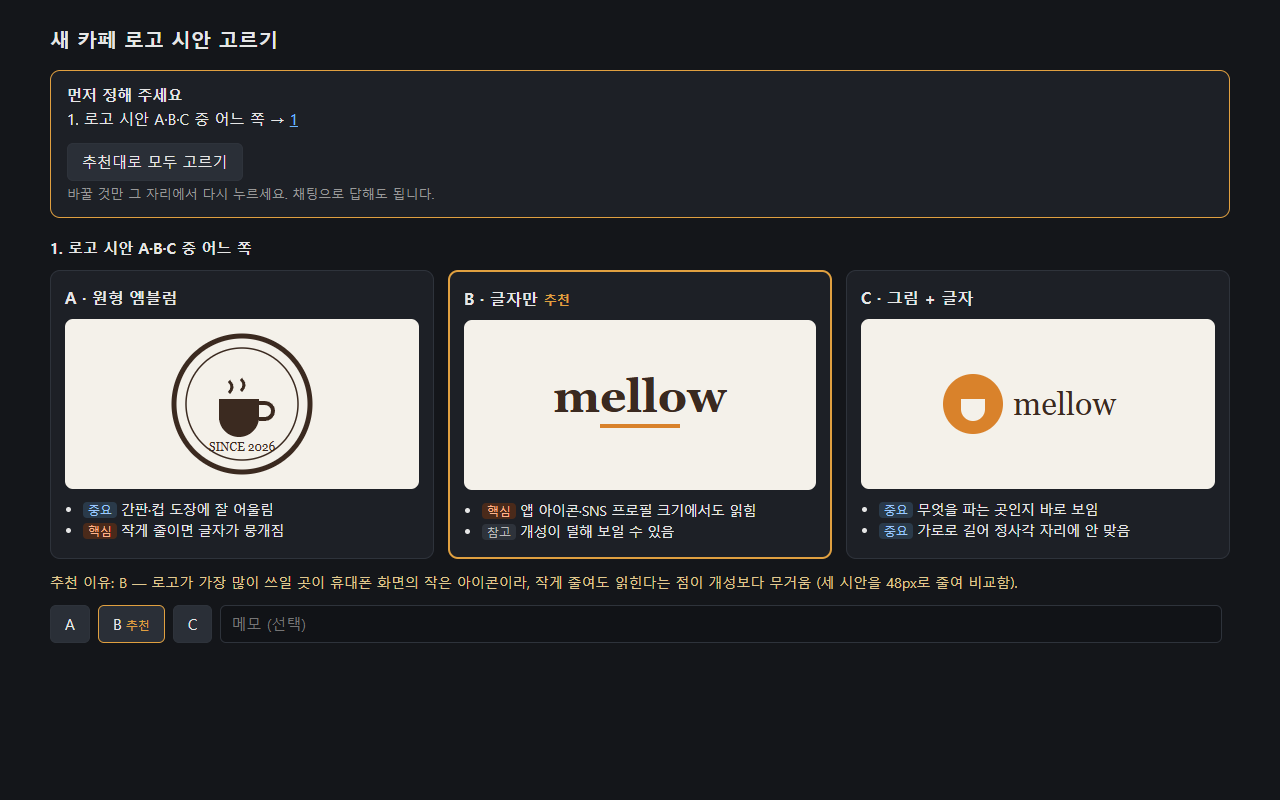
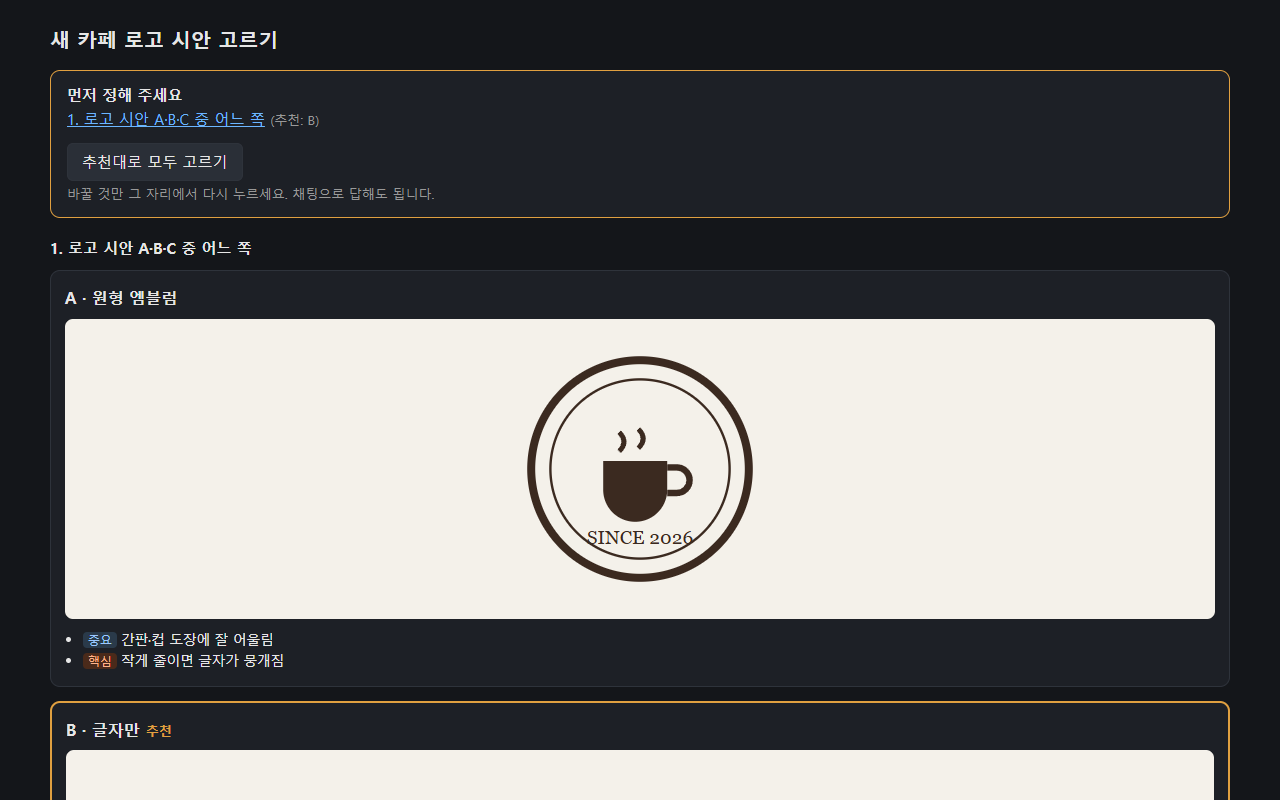
docs: pick example follows 2.1 — one card per row at full width, click to enlarge (arrows, Esc); question text is the link
The README's lead example showed three shrunken cards in a row, against the skill's own "show images large" rule.

diff --git a/docs/example_pick.html b/docs/example_pick.html
@@ -4,11 +4,15 @@ h1{font-size:20px;margin:0 0 14px}
 .ask{background:#1d2026;border:1px solid #e0a040;border-radius:10px;padding:12px 16px;margin:0 0 18px}
 .ask a{color:#6cb6ff}
 .dim{color:#999;font-size:13px}
-.cards{display:grid;grid-template-columns:repeat(3,1fr);gap:14px}
+.cards{display:grid;grid-template-columns:1fr;gap:14px}
 .card{background:#1d2026;border:1px solid #2e333b;border-radius:10px;padding:14px}
 .card.rec{border:2px solid #e0a040}
 .card h3{margin:0 0 8px;font-size:16px}.card h3 .r{color:#e0a040;font-size:13px;margin-left:6px}
-.art{background:#f4f1ea;border-radius:8px;height:170px;display:flex;align-items:center;justify-content:center;margin-bottom:10px}
+.art{background:#f4f1ea;border-radius:8px;height:300px;display:flex;align-items:center;justify-content:center;margin-bottom:10px;cursor:zoom-in}
+.art svg{height:240px;width:auto}
+#lb{position:fixed;inset:0;background:rgba(0,0,0,.92);display:none;align-items:center;justify-content:center;z-index:9}
+#lb.on{display:flex}#lb .box{background:#f4f1ea;border-radius:10px;width:86vw;height:82vh;display:flex;align-items:center;justify-content:center}#lb svg{height:70vh;width:auto}
+#lb .hint{position:fixed;bottom:14px;left:0;right:0;text-align:center;color:#999;font-size:13px}
 ul{margin:4px 0 0;padding-left:18px;font-size:13.5px}
 .t{font-size:12px;padding:0 5px;border-radius:4px;margin-right:4px}
 .k{background:#4a2a1a;color:#ffb38a}.m{background:#2a3a4a;color:#9cc8ff}.n{background:#2e333b;color:#bbb}
@@ -22,7 +26,7 @@ ul{margin:4px 0 0;padding-left:18px;font-size:13.5px}
 </style></head><body>
 <h1>새 카페 로고 시안 고르기</h1>
 <div class="ask"><b>먼저 정해 주세요</b><br>
-1. 로고 시안 A·B·C 중 어느 쪽 → <a href="#q1">1</a><br>
+<a href="#q1">1. 로고 시안 A·B·C 중 어느 쪽</a> <span class="dim">(추천: B)</span><br>
 <div class="pick"><button class="allbtn" id="allrec">추천대로 모두 고르기</button><span class="saved" id="allsaved"></span></div>
 <span class="dim">바꿀 것만 그 자리에서 다시 누르세요. 채팅으로 답해도 됩니다.</span></div>
 
@@ -57,4 +61,12 @@ document.querySelectorAll('.pick[data-q]').forEach(box => {
   if (note) { note.oninput = () => saved.textContent = ''; note.onchange = send; }
 });
 document.getElementById('allrec').onclick = () => { let n = 0; document.querySelectorAll('.pick[data-q]').forEach(box => { const rec = box.querySelector('button.rec'); if (rec && !box.querySelector('button.on')) { rec.click(); n++; } }); document.getElementById('allsaved').textContent = n + '개 추천대로 고름'; };
+// 그림을 누르면 화면 가득, ←→로 넘기고 Esc로 닫음 (2.1 「그림은 크게, 누르면 화면 가득」)
+const arts = [...document.querySelectorAll('.art')];
+const lb = document.createElement('div'); lb.id = 'lb'; lb.innerHTML = '<div class="box"></div><div class="hint">← → 넘기기 · Esc 닫기</div>'; document.body.appendChild(lb);
+let cur = 0;
+const show = i => { cur = (i + arts.length) % arts.length; lb.querySelector('.box').innerHTML = arts[cur].innerHTML; lb.classList.add('on'); };
+arts.forEach((a, i) => a.onclick = () => show(i));
+lb.onclick = () => lb.classList.remove('on');
+document.addEventListener('keydown', e => { if (!lb.classList.contains('on')) return; if (e.key === 'Escape') lb.classList.remove('on'); if (e.key === 'ArrowRight') show(cur + 1); if (e.key === 'ArrowLeft') show(cur - 1); });
 </script></body></html>
